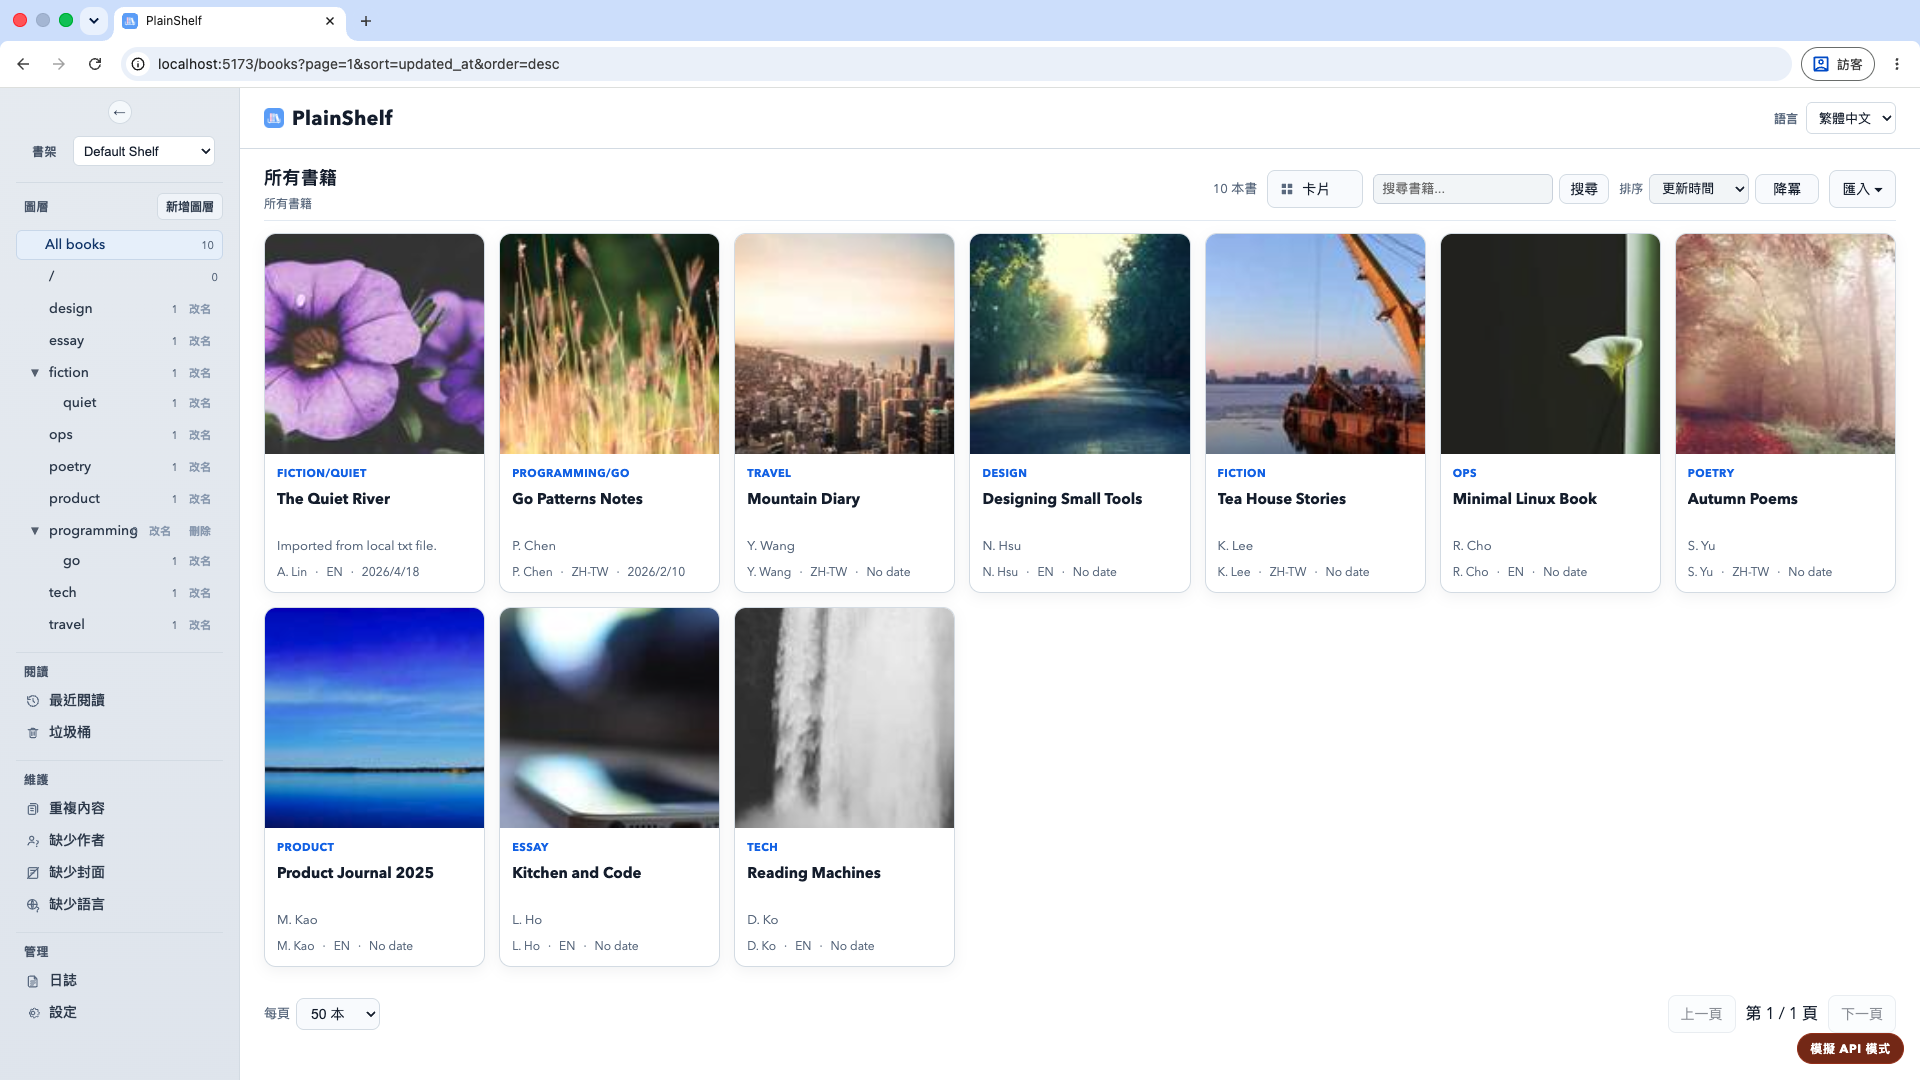
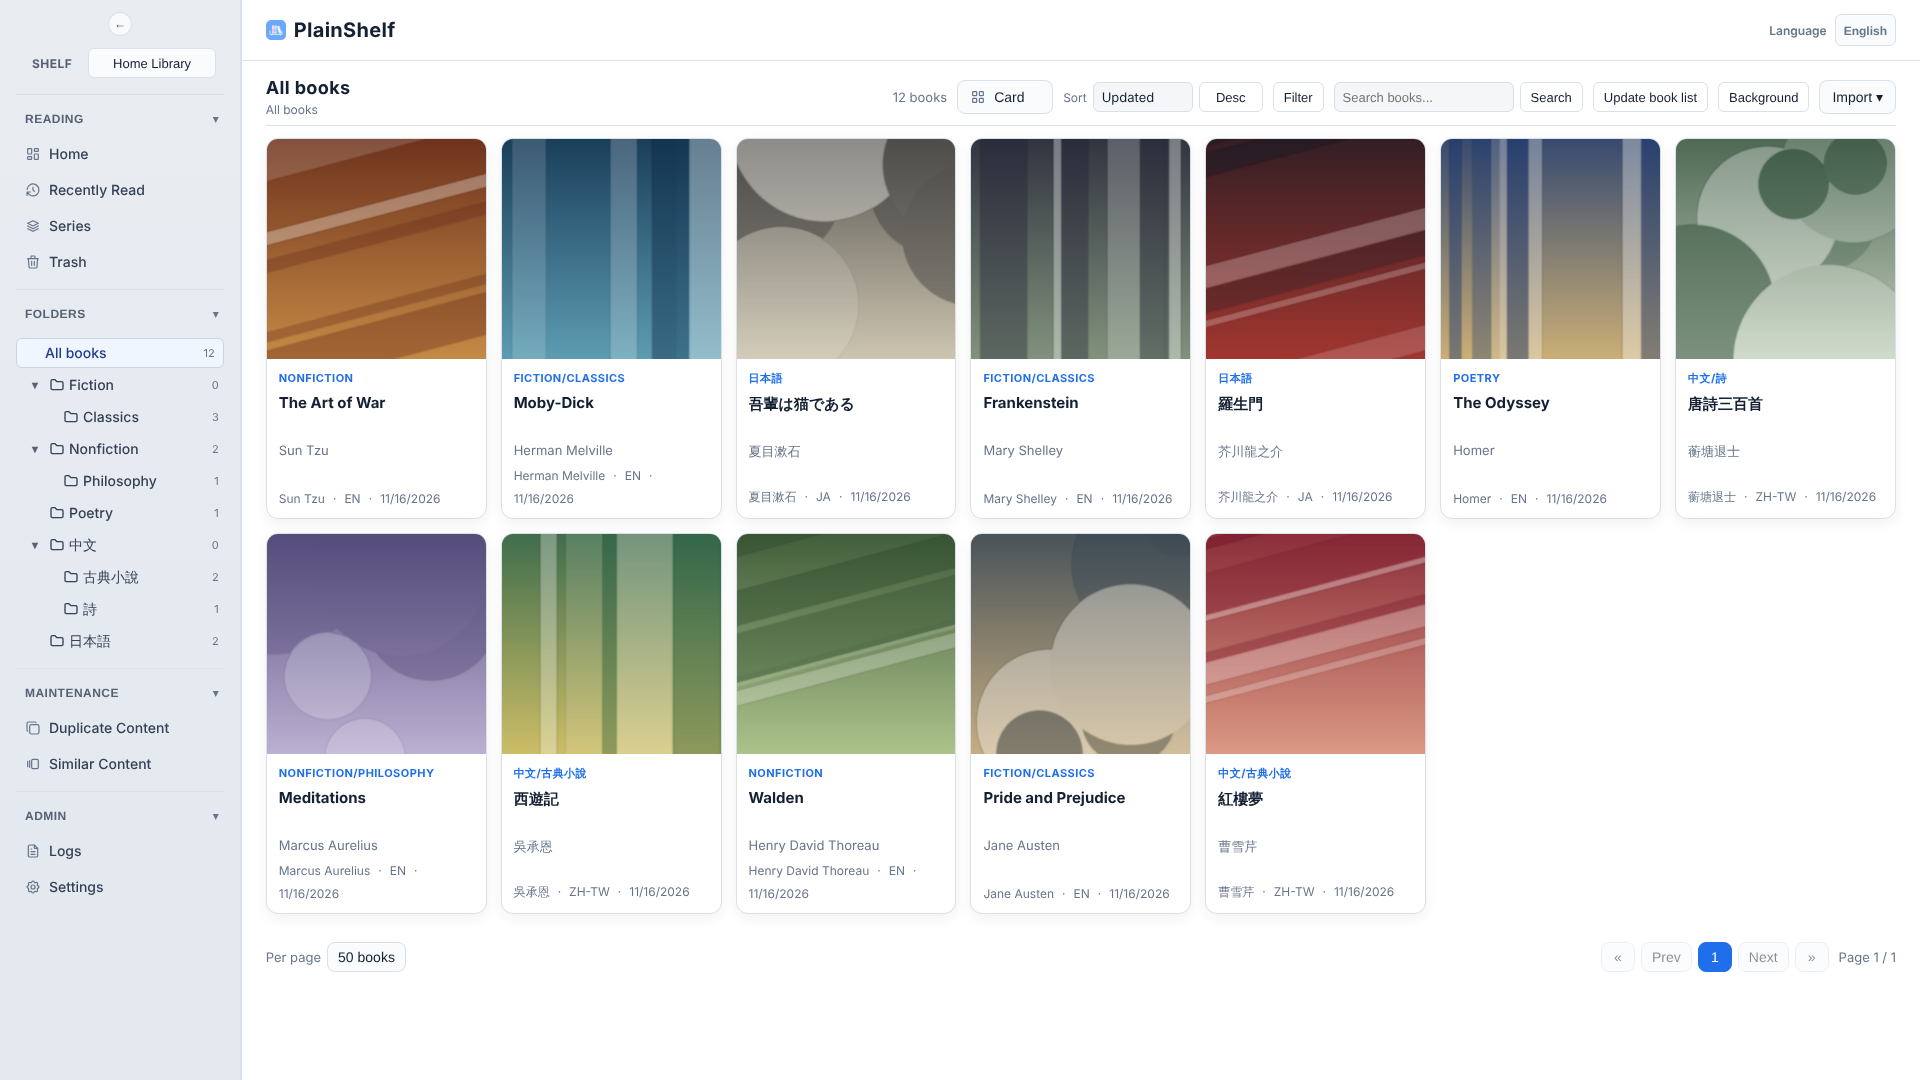
Docs home and README show a current library screenshot; known issues and shelf sources drop misfiled sections (#918)
## 問題

- `image.png`, the README screenshot, was taken in mock mode: it shows
the "模擬 API 模式" badge and picsum stock covers, and the toolbar has
changed since. The docs home page had no screenshot at all.
- `known-issue.md` → Shelf cache limitations introduces its per-setup
sections as setups that "each add something" to the two general limits.
The first one, "One server, several personal devices (Tailscale and
similar)", adds nothing: it says one server process means one cache and
no divergence. That is deployment guidance, not a known issue.
- `concepts/shelf-sources.md` → "Open decisions" listed three items. Two
were already marked "Settled", and the CORS one duplicated the
configuration reference. The third (pCloud refused on the server and
desktop) is a product-scope limit, not an undecided design question.

## 改法

**Screenshot** (third commit)
- New `image.png` (1920×1080): the All books card view of a real
`plainshelf-srv` built from this branch. The shelf is a throwaway with
twelve public-domain titles in English, Chinese and Japanese, nested
folders, and covers generated locally as abstract gradients.
- `docs/assets/plainshelf-library.png` is the same image, shown on
`docs/index.md` under the intro. mkdocs serves only `docs/`, and
`image.png` keeps its root path because `release.yml` copies it into the
release archive and `scripts/ci-changes.sh` classifies it.
- Alt text now describes what the image shows.

**Known issues** (first commit)
[…]

diff --git a/docs/concepts/shelf-sources.md b/docs/concepts/shelf-sources.md
@@ -26,7 +26,7 @@ needs a secret gets it.
 
 | | Local shelf | Virtual shelf |
 |---|---|---|
-| Source | A directory the engine can open as a path: a server or desktop path, the Android app's private directory, the wasm demo's OPFS tree | A remote file tree: pCloud, another PlainShelf's [read-only export](#open-decisions), any WebDAV server |
+| Source | A directory the engine can open as a path: a server or desktop path, the Android app's private directory, the wasm demo's OPFS tree | A remote file tree: pCloud, another PlainShelf's [read-only export](../reference/configuration.md#dav_export), any WebDAV server |
 | Writes | Read-write, or `read_only: true` | Always read-only |
 | Opened by | `os.OpenRoot`, atomic writes, the shelf lock | A remote read-only `fsutil.ReadFS` that reads `app/book-cache-*.json` instead of walking every book |
 | Offline | Already local | Books can be downloaded to a device-local offline layer outside the shelf |
@@ -135,7 +135,7 @@ app_conf:
         username: reader
         credential: env:PLAINSHELF_NAS_PASSWORD
 
-    # pCloud (see "Open decisions": refused on the server and desktop for now).
+    # pCloud (Android only; see "Availability by client").
     - id: cloud
       source:
         type: pcloud
@@ -160,6 +160,12 @@ app_conf:
 
 A field that does not belong to the declared `type` fails startup instead of
 being ignored, so a typo cannot silently open the wrong thing.
+
+`plainshelf` is the `webdav` client with the export's token convention: another
+PlainShelf is read through its read-only
+[WebDAV export](../reference/configuration.md#dav_export), not its HTTP API. The
+Android app's `server` entry, which uses the full API, stays until virtual
+shelves replace it.
 
 ### Rules
 
@@ -372,6 +378,11 @@ authorization uses the authorized account's user ID.
 A source a client cannot open fails that shelf at startup with an error naming
 the type, never by falling back to another source.
 
+`pcloud` is refused on the server and desktop because pCloud is in scope only as
+the Android client's read-only backend (see
+[Project boundaries](../index.md#project-boundaries)). The format already
+expresses it, so lifting that limit needs no format change.
+
 The wasm demo fetches through the browser, so it can read another PlainShelf's
 export only when the export lists the demo's origin in
 [`dav_export.allowed_origins`](../reference/configuration.md#browser-access),
@@ -379,26 +390,6 @@ and only from a demo page served over plain HTTP: the export has no TLS, and a
 browser blocks an `https://` page from reading `http://` as mixed content. The
 published demo is served over HTTPS, so in practice this means a demo hosted on
 the LAN. Its shelf list is fixed today, so no demo reads a remote shelf yet.
-
----
-
-## Open decisions
-
-- **pCloud on the server and desktop.** The format can express it, but
-  `AGENTS.md` currently limits pCloud to the Android client. Until that product
-  decision changes, the server and desktop refuse `type: pcloud` at startup. No
-  format change is needed to lift it.
-- **CORS on the export.** Settled: off by default, and on only for
-  the origins `dav_export.allowed_origins` lists by name. A wildcard is refused,
-  because the token is a bearer token in a header: with `*`, any web page that
-  learned it could read every exported shelf. No credentials mode, since no
-  cookie is involved. The preflight is answered without the token and carries
-  nothing from the shelf. Mixed content limits the benefit to a demo served over
-  plain HTTP; export TLS is a separate decision.
-- **PlainShelf as a source.** Settled: another PlainShelf is reached through its
-  read-only WebDAV export, and `plainshelf` is the same client as `webdav` with
-  the export's token convention. The Android app's existing full-API connection
-  stays until virtual shelves replace it.
 
 ---
 

diff --git a/docs/known-issue.md b/docs/known-issue.md
@@ -36,18 +36,8 @@ force one with the button. Until that scan the stale reading stands — though t
 file itself is served correctly when something asks for it, since covers and
 source text are read from disk, never cached.
 
-On a single desktop machine those two limits are the whole story. The setups
-below each add something to them.
-
-### One server, several personal devices (Tailscale and similar)
-
-This means one shelf server process on one machine, with your own devices
-reaching that same server over the network.
-
-There is only one server process, so there is one authoritative in-memory cache
-and no divergence between clients to reason about. External changes to the
-library folder are still discovered on the timer above, and **Update book list**
-pressed on any device refreshes what all of them see.
+On a single machine, or one server that several of your devices reach, those
+two limits are the whole story. The setups below each add something to them.
 
 ### A shelf inside a sync folder (Dropbox, Google Drive, Syncthing, iCloud)
 

diff --git a/docs/deployment-and-threat-model.md b/docs/deployment-and-threat-model.md
@@ -92,6 +92,12 @@ Two things to get right on this tier:
   so on a network where you do not trust every device, this setting is not the
   control you want — the network boundary is.
 
+Every device on this tier talks to the one server process, so they share one
+in-memory shelf cache and never disagree about the library. A change made to the
+shelf folder outside PlainShelf still waits for the next scan; **Update book
+list** pressed on any device refreshes what all of them see. See [Shelf cache
+limitations](known-issue.md#shelf-cache-limitations).
+
 !!! warning "Do not reach for `mode: none`"
     `mode: none` on a non-loopback address disables the token and the origin
     checks entirely, and any website open in any browser on that network can

diff --git a/docs/index.md b/docs/index.md
@@ -4,6 +4,8 @@ PlainShelf is a local-first, single-user reading library for plain text and
 Markdown content. The shelf on disk is the source of truth; the application
 adds a web interface, desktop integration, and an experimental Android client.
 
+![PlainShelf library in card view, with nested folders in the sidebar](assets/plainshelf-library.png)
+
 !!! warning "Before 1.0"
     The on-disk format freezes at `1.0.0-rc1`; until that release it can still
     change, and APIs and UI behavior stay changeable after it. Keep a current

diff --git a/README.md b/README.md
@@ -19,7 +19,7 @@ deployment does and does not protect.
 > [Backup and restore](docs/backup-and-restore.md) and
 > [Data format versioning](docs/concepts/data-format-versioning.md).
 
-![PlainShelf library preview](image.png)
+![PlainShelf library in card view, with nested folders in the sidebar](image.png)
 
 ## What it does
 
